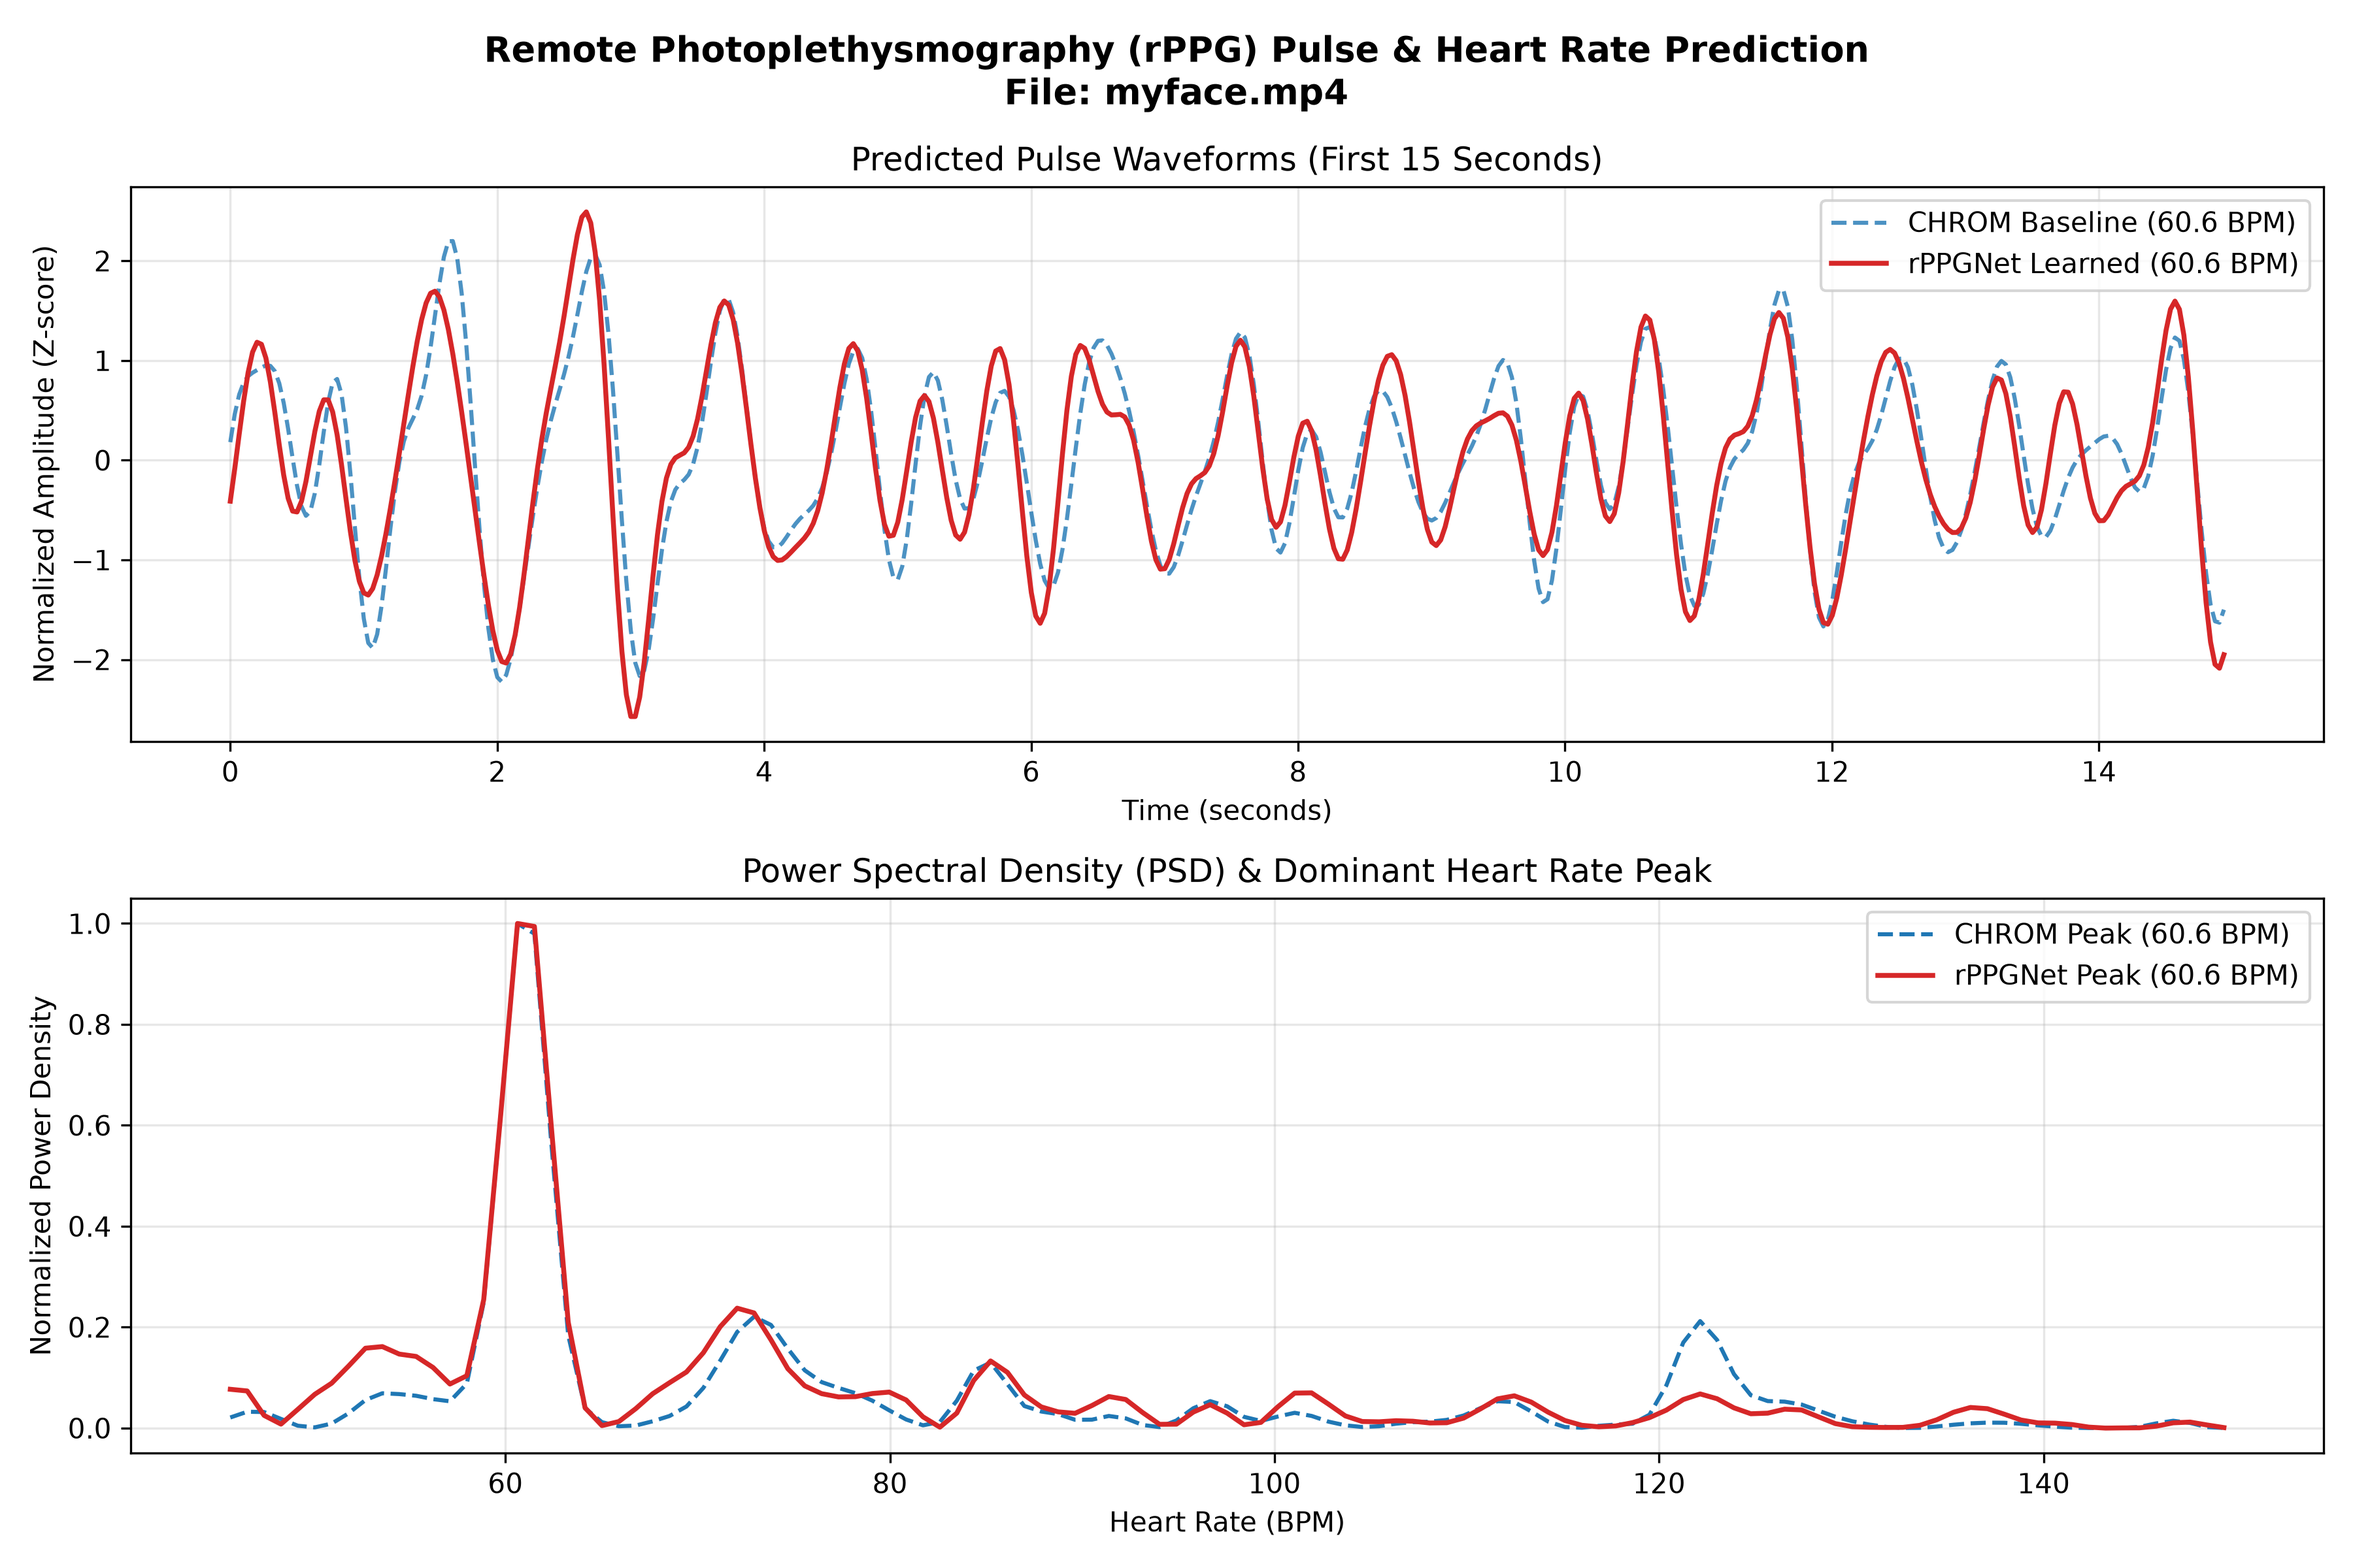
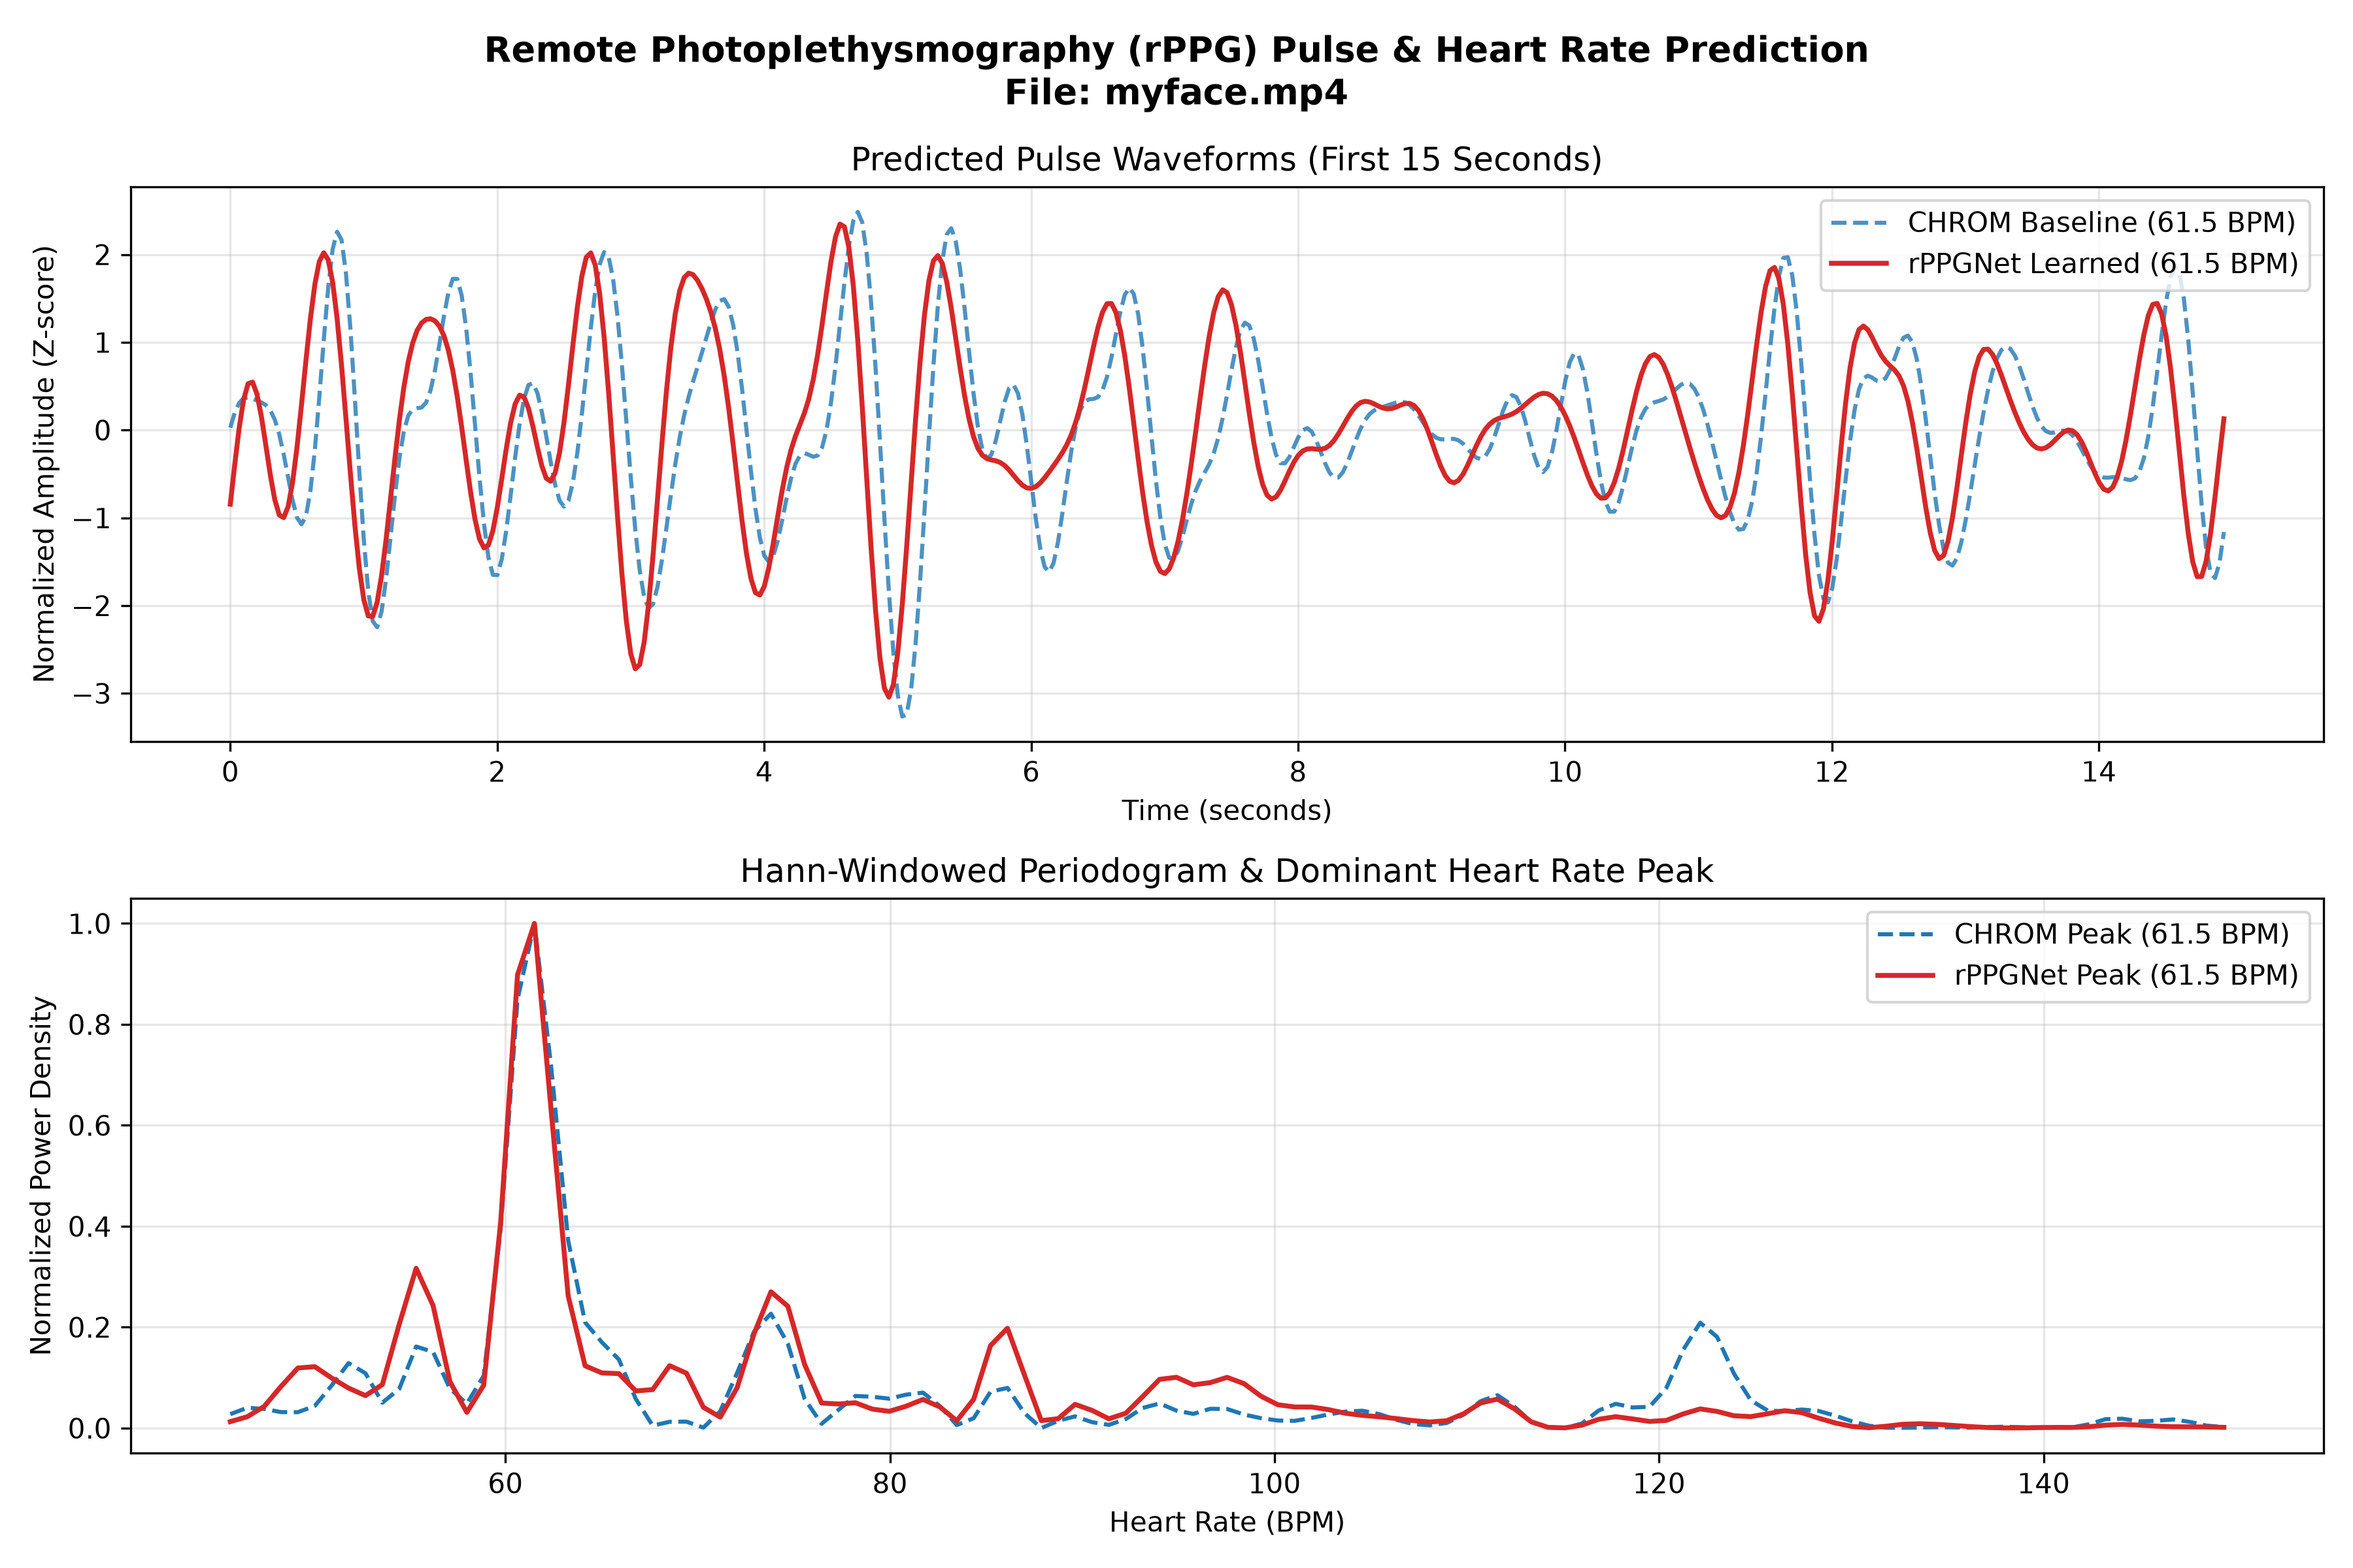
fix: resolve predict.py imports, strict=False weight loading, periodic Hann overlap-add, and Windows CP1252 print encoding

diff --git a/src/training/evaluate_model.py b/src/training/evaluate_model.py
@@ -46,9 +46,8 @@ def reconstruct_full_waveform(model, dataset, full_length, window_size=150, stri
     full_pred  = np.zeros(full_length, dtype=np.float32)
     weight_sum = np.zeros(full_length, dtype=np.float32)
 
-    # Hann window for weighted overlap-add (weights sum to a near-constant value
-    # when overlap >= 50%, giving uniform reconstruction amplitude).
-    hann = np.hanning(window_size).astype(np.float32)
+    # Periodic Hann window (endpoints > 0 so first and last frames are not zeroed)
+    hann = (0.5 * (1.0 - np.cos(2.0 * np.pi * (np.arange(window_size) + 0.5) / window_size))).astype(np.float32)
 
     with torch.no_grad():
         for i, start in enumerate(dataset.start_indices):
@@ -106,7 +105,11 @@ def evaluate_model_pipeline(
     # 2. Load Model
     device = torch.device("cuda" if torch.cuda.is_available() else "cpu")
     model  = rPPGNet().to(device)
-    model.load_state_dict(torch.load(model_path, map_location=device))
+    try:
+        model.load_state_dict(torch.load(model_path, map_location=device))
+    except RuntimeError as e:
+        print(f"[Notice] Loading checkpoint with strict=False due to architectural updates: {e}")
+        model.load_state_dict(torch.load(model_path, map_location=device), strict=False)
     print(f"Loaded trained rPPGNet model from: {model_path}")
 
     # 3. Model Inference & Signal Reconstruction (A5: Hann-weighted overlap-add)

diff --git a/src/training/train.py b/src/training/train.py
@@ -146,7 +146,7 @@ def train_model(
             best_val_corr = val_corr_epoch
             torch.save(model.state_dict(), out_checkpoint)
             patience_counter = 0
-            print(f"  --> Saved new best model → {out_checkpoint}")
+            print(f"  --> Saved new best model -> {out_checkpoint}")
         else:
             patience_counter += 1
 
